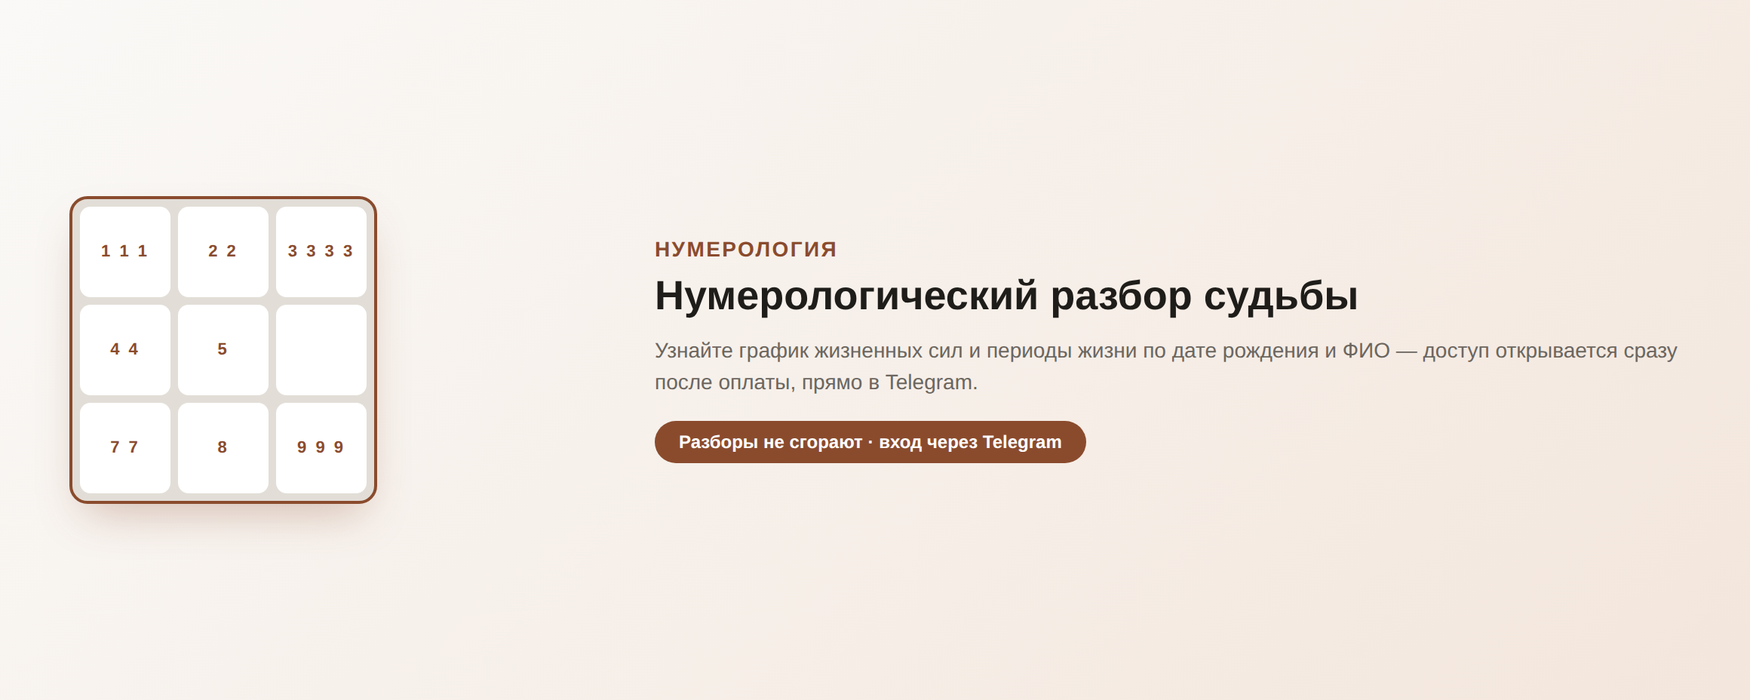
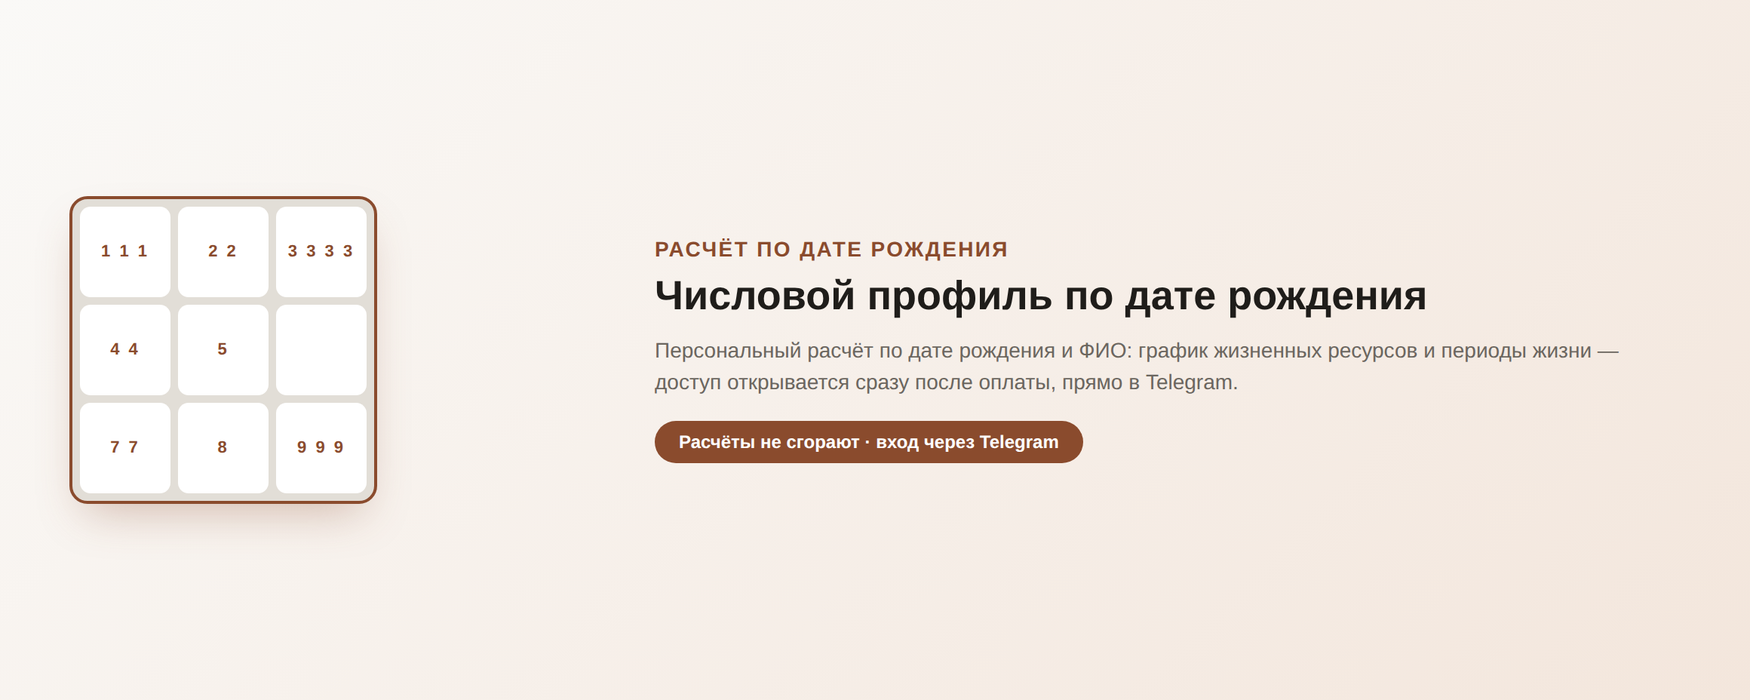
Reword Lava.top product listing to drop esoteric-sounding wording
Lava.top rejected the product in moderation for esoteric content. Drops
"нумерология"/"numerology" and "судьба"/"destiny" from every Lava.top-facing
field (title, description, cover images, after-payment text, buyer email) in
favor of neutral "birth date number profile" framing -- same methodology,
reworded listing only. The site/bot's own branding is unaffected.

Claude-Session: https://claude.ai/code/session_019Sov9VAdEbZeJwPfHKpqwZ

Changed region(s): [[0.3724, 0.4062, 0.9621, 0.5625], [0.4034, 0.625, 0.6207, 0.6562], [0.3724, 0.3438, 0.5897, 0.375]]

diff --git a/lava_assets/gen_covers.py b/lava_assets/gen_covers.py
@@ -4,6 +4,21 @@ already shows up in the product's own title and price field, so the
 cover itself doesn't need to repeat it (per explicit request: the pack
 count doesn't need to be on the cover).
 
+Per explicit request, the covers (and all Lava.top-facing text) avoid the
+"Квадрат Пифагора" / "Pythagorean Square" name — the marketplace-facing
+branding is the more generic "Нумерологический разбор судьбы" / "Numerology
+Destiny Reading" instead, with a short project-description paragraph baked
+into the cover itself (Lava.top-style short pitch).
+
+**Reworded 2026-10-08** after Lava.top's moderation rejected the product
+for "эзотерический контент" (esoteric content). Dropped "нумерология" /
+"numerology" and "судьба" / "destiny" entirely from every field — these are
+exactly the words that trip the esoteric-category filter at most RU payment
+aggregators right now, not just Lava.top (see lava_assets/README.md). The
+product is now framed purely as a calculation/data tool based on birth date
+and name ("числовой профиль по дате рождения" / "birth date number
+profile"), with no "divination" framing anywhere.
+
 Size confirmed from Lava.top's own "Как создать цифровой продукт?" FAQ
 article (faq.lava.top/article/53726): cover must be 1160x464px, JPG/JPEG/
 PNG/WebP.
@@ -28,13 +43,13 @@ os.makedirs(OUT_DIR, exist_ok=True)
 COVER_W = 1160
 COVER_H = 464
 
-TITLE = {"ru": "Квадрат Пифагора", "en": "Pythagorean Square"}
-HEADLINE = {"ru": "Доступ к вкладке «Графики»", "en": "Unlocks the “Charts” tab"}
+EYEBROW = {"ru": "Расчёт по дате рождения", "en": "Birth Date Calculation"}
+HEADLINE = {"ru": "Числовой профиль по дате рождения", "en": "Birth Date Number Profile"}
 SUBTITLE = {
-    "ru": "График жизненных сил и периоды жизни по дате рождения и ФИО",
-    "en": "Life-force chart and life-period breakdown from your birth date and name",
+    "ru": "Персональный расчёт по дате рождения и ФИО: график жизненных ресурсов и периоды жизни — доступ открывается сразу после оплаты, прямо в Telegram.",
+    "en": "A personal calculation from your birth date and name: your resource chart and life-period breakdown — unlocked instantly after payment, right in Telegram.",
 }
-TAG = {"ru": "Разборы не сгорают · вход через Telegram",
+TAG = {"ru": "Расчёты не сгорают · вход через Telegram",
        "en": "Credits never expire · Telegram login"}
 
 # Decorative sample grid — not a real calculation, just echoes the site's
@@ -66,16 +81,16 @@ HTML_TEMPLATE = """<!doctype html>
     justify-content:center; font-size:11px; letter-spacing:1.5px; color:var(--accent);
     font-weight:600;
   }}
-  .right {{ max-width:660px; margin-left:36px; }}
+  .right {{ max-width:680px; margin-left:36px; }}
   .eyebrow {{
-    font-size:16px; color:var(--accent); font-weight:600; letter-spacing:0.4px;
-    margin-bottom:8px;
+    font-size:14px; color:var(--accent); font-weight:700; letter-spacing:1.2px;
+    text-transform:uppercase; margin-bottom:8px;
   }}
-  h1 {{ font-size:29px; margin:0 0 10px 0; font-weight:700; line-height:1.15; }}
-  .subtitle {{ font-size:15px; color:var(--muted); line-height:1.4; margin-bottom:18px; }}
+  h1 {{ font-size:27px; margin:0 0 10px 0; font-weight:700; line-height:1.15; }}
+  .subtitle {{ font-size:14px; color:var(--muted); line-height:1.45; margin-bottom:16px; }}
   .tag {{
     display:inline-block; background:var(--accent); color:#fff; border-radius:999px;
-    padding:8px 18px; font-size:13px; font-weight:600;
+    padding:7px 16px; font-size:12px; font-weight:600;
   }}
 </style></head>
 <body>
@@ -83,7 +98,7 @@ HTML_TEMPLATE = """<!doctype html>
     {cells}
   </div>
   <div class="right">
-    <div class="eyebrow">{title}</div>
+    <div class="eyebrow">{eyebrow}</div>
     <h1>{headline}</h1>
     <div class="subtitle">{subtitle}</div>
     <div class="tag">{tag}</div>
@@ -96,7 +111,7 @@ def render(lang):
     cells_html = "".join(f'<div class="cell">{c}</div>' for c in GRID_CELLS)
     html = HTML_TEMPLATE.format(
         w=COVER_W, h=COVER_H,
-        title=TITLE[lang], headline=HEADLINE[lang], subtitle=SUBTITLE[lang],
+        eyebrow=EYEBROW[lang], headline=HEADLINE[lang], subtitle=SUBTITLE[lang],
         tag=TAG[lang], cells=cells_html,
     )
     return html

diff --git a/lava_assets/content.md b/lava_assets/content.md
@@ -1,12 +1,20 @@
-# Тексты для карточек Lava.top (Нумерологический разбор судьбы)
+# Тексты для карточек Lava.top (Числовой профиль по дате рождения)
 
-Маркетплейс-название специально без термина «Квадрат Пифагора» — на
-Lava.top товар называется и описывается как «Нумерологический разбор
-судьбы» (EN: «Numerology Destiny Reading»); на самом сайте/в боте
-название сервиса не меняется, это только витрина на Lava.top.
+**Переформулировано 2026-10-08** — Lava.top отклонил товар на модерации с
+причиной «эзотерический контент». Убрали из всех полей (названия, описания,
+обложки, письма) слова «нумерология/нумерологический» и «судьба» — это и
+есть, судя по всему, слова-триггеры эзотерической категории у Lava.top (и
+не только у него — см. `README.md`, раздел про общую ситуацию на рынке).
+Товар теперь описан просто как расчёт по дате рождения и ФИО, без всякой
+«гадательной» рамки — методика та же, просто без терминов, которые
+автоматически уводят продукт в категорию эзотерики.
+
+Маркетплейс-название: «Числовой профиль по дате рождения» (EN: «Birth Date
+Number Profile»); на самом сайте/в боте название сервиса не меняется, это
+только витрина на Lava.top.
 
 Универсальный вариант: один текст на оба пакета в каждом языке (RU/EN) —
-конкретное число разборов и цену покупатель и так видит в названии товара
+конкретное число расчётов и цену покупатель и так видит в названии товара
 и в цене карточки, а сколько кредитов начислить бэкенд определяет сам по
 `offerId` (см. `LAVA_OFFERS`/`PACKS` в `backend/main.py`) — в самих текстах
 это дублировать не нужно.
@@ -14,17 +22,19 @@ Lava.top товар называется и описывается как «Ну
 Поля идут в порядке формы «Создание продукта» на Lava.top: **Название
 продукта → Описание продукта → После оплаты → Письмо покупателю**.
 
-**Картинки** — в `covers/`:
+**Если в форме есть поле категории/ниши** — выберите что-то нейтральное
+(«Образование», «Саморазвитие», «Прочее» и т.п.), не «Эзотерика», если такой
+пункт там есть отдельно от текста полей.
+
+**Картинки** — в `covers/` (перегенерированы 2026-10-08 с новым текстом,
+`python3 gen_covers.py`):
 - `cover_ru.png` / `cover_en.png` — обложка (1160×464), одна на оба RU-пакета и одна на оба EN-пакета. Короткое описание проекта уже встроено в саму картинку текстом (заголовок + два предложения), как и просили.
 - `icon.png` — квадратная иконка (512×512, универсальная для RU и EN), на случай если где-то в интерфейсе Lava.top потребуется отдельно от обложки.
 
-**Цена** вводится вручную в поле цены на Lava.top:
+**Цена** вводится вручную в поле цены на Lava.top (не менялась):
 - RU: 999 ₽ / 2499 ₽ (pack3 / pack10)
 - EN: $14.99 / $34.99 (pack3 / pack10 — в том же соотношении к рублю, что
   вы задали; это моё предложение по курсу, проверьте и поправьте если нужно)
-
-Пакетов теперь два (было три) — тариф на 15 разборов убрали по вашему решению,
-после окончания любого пакета можно докупить ещё.
 
 Переключатель **«Цена по запросу через API»** — выключить: наш бэкенд
 передаёт при создании счёта только `offerId`, `currency` и email, без
@@ -34,30 +44,30 @@ Lava.top товар называется и описывается как «Ну
 
 ## RU — названия двух товаров (различаются только этим полем)
 
-> Нумерологический разбор судьбы — 3 разбора (999 ₽)
-> Нумерологический разбор судьбы — 10 разборов (2499 ₽)
+> Числовой профиль по дате рождения — 3 расчёта (999 ₽)
+> Числовой профиль по дате рождения — 10 расчётов (2499 ₽)
 
 ## RU — Описание продукта (одинаковое для обоих)
 
-> Персональный нумерологический разбор судьбы: график жизненных сил и периоды жизни по дате рождения и ФИО. Доступ открывается сразу после оплаты, разборы не сгорают и остаются на балансе до использования — вход через Telegram.
+> Персональный расчёт по дате рождения и ФИО: числовая таблица, график жизненных ресурсов и периодов жизни. Доступ открывается сразу после оплаты, расчёты не сгорают и остаются на балансе до использования — вход через Telegram.
 
 ## RU — После оплаты (одинаковое для обоих)
 
-> Оплата прошла успешно! Оплаченные разборы уже зачисляются на ваш баланс — обычно это занимает несколько минут. Откройте бот @AstroNumeros_bot, войдите через кнопку «Войти через Telegram» (тем же аккаунтом, что указывали при оплате) и откройте вкладку «Графики». Чек за покупку придёт отдельным письмом на указанный email.
+> Оплата прошла успешно! Оплаченные расчёты уже зачисляются на ваш баланс — обычно это занимает несколько минут. Откройте бот @AstroNumeros_bot, войдите через кнопку «Войти через Telegram» (тем же аккаунтом, что указывали при оплате) и откройте вкладку «Графики». Чек за покупку придёт отдельным письмом на указанный email.
 
 ## RU — Письмо покупателю — тема (одинаковое для обоих)
 
-> Ваша покупка — нумерологический разбор судьбы
+> Ваша покупка — расчёт по дате рождения
 
-## RU — Письмо покупателю — текст (одинаковое для обоих, сокращено)
+## RU — Письмо покупателю — текст (одинаковое для обоих)
 
 > Здравствуйте!
 >
-> Разборы добавляются на баланс автоматически, обычно за несколько минут.
+> Расчёты добавляются на баланс автоматически, обычно за несколько минут.
 >
 > Как получить доступ: откройте бот @AstroNumeros_bot в Telegram (или сайт, когда заработает), войдите тем же аккаунтом Telegram, что и при оплате, и откройте вкладку «Графики».
 >
-> Разборы не сгорают.
+> Расчёты не сгорают.
 >
 > Баланс не обновился за 20 минут, или есть вопросы — напишите на mvbern8@gmail.com.
 
@@ -65,12 +75,12 @@ Lava.top товар называется и описывается как «Ну
 
 ## EN — two product names (only field that differs)
 
-> Numerology Destiny Reading — 3 readings ($14.99)
-> Numerology Destiny Reading — 10 readings ($34.99)
+> Birth Date Number Profile — 3 readings ($14.99)
+> Birth Date Number Profile — 10 readings ($34.99)
 
 ## EN — Product description (same for both)
 
-> A personal numerology destiny reading: your life-force chart and life-period breakdown, based on your birth date and full name. Unlocked instantly after payment, credits never expire — access via Telegram login.
+> A personal calculation based on your birth date and full name: a number table, your resource chart and life-period breakdown. Unlocked instantly after payment, credits never expire — access via Telegram login.
 
 ## EN — After payment (same for both)
 
@@ -78,9 +88,9 @@ Lava.top товар называется и описывается как «Ну
 
 ## EN — Buyer email — subject (same for both)
 
-> Your purchase — numerology destiny reading
+> Your purchase — birth date calculation
 
-## EN — Buyer email — body (same for both, shortened further)
+## EN — Buyer email — body (same for both)
 
 > Hi!
 >

diff --git a/lava_assets/README.md b/lava_assets/README.md
@@ -1,5 +1,39 @@
 # Материалы для карточек Lava.top
 
+## ⚠ Отклонено модерацией (7.10.2026) — переформулировано (8.10.2026)
+
+Lava.top отклонил товар «Numerology Destiny Reading» с причиной «Контент
+нарушает правила платформы (эзотерика) — публикация содержит эзотерический
+контент, что противоречит правилам платформы».
+
+Это не только проблема формулировки у Lava.top — сейчас почти все платёжные
+агрегаторы в РФ настороженно относятся к категории «эзотерика/гадания»
+(история мошенничества вроде «приворот за 999₽» и обсуждаемый в Госдуме
+законопроект о запрете рекламы таких услуг — пока не принят, но тренд среди
+агрегаторов и банков уже есть).
+
+**Решение (выбрано Мариной):** переподать в Lava.top с другой формулировкой,
+не меняя бэкенд/сайт. Убрали слова «нумерология/нумерологический» и «судьба»
+из названия, описания, обложки и писем — товар теперь описан нейтрально, как
+расчёт по дате рождения и ФИО, без «гадательной» рамки. Все тексты ниже в
+`content.md` и обложки в `covers/` уже обновлены под это; старые
+(«Нумерологический разбор судьбы» / «Numerology Destiny Reading») —
+исторические, в этом файле ниже ещё встречаются как ссылка на уже созданный
+товар по id, переименуйте сам товар на Lava.top под новое название при
+переподаче.
+
+**Что сделать в Lava.top:**
+1. Зайти в товар `4c6214a4-442f-4840-824e-870bd9701855` → отредактировать
+   название и описание на новые (см. `content.md`) — для обоих тарифов.
+2. Перезалить обложки `covers/cover_ru.png` / `covers/cover_en.png` (уже
+   перегенерированы с новым текстом).
+3. Если в форме есть отдельное поле категории/ниши — сменить с «Эзотерика»
+   (если стояла) на нейтральную («Образование», «Саморазвитие», «Прочее»).
+4. Отправить на повторную модерацию.
+5. Если и в этот раз отклонят — попробовать другую площадку (Prodamus или
+   Robokassa, оба активно работают с инфобизнесом/экспертами) — но это уже
+   переделка бэкенда под другой API, не только тексты.
+
 **Подтверждено 6.10.2026 через реальный вызов API** (`gate.lava.top/api/v2/products`):
 нужен всего **один товар** с двумя тарифами внутри (через переключатель
 «Создать несколько тарифов») — у каждого тарифа свой `offerId`, и этот же
